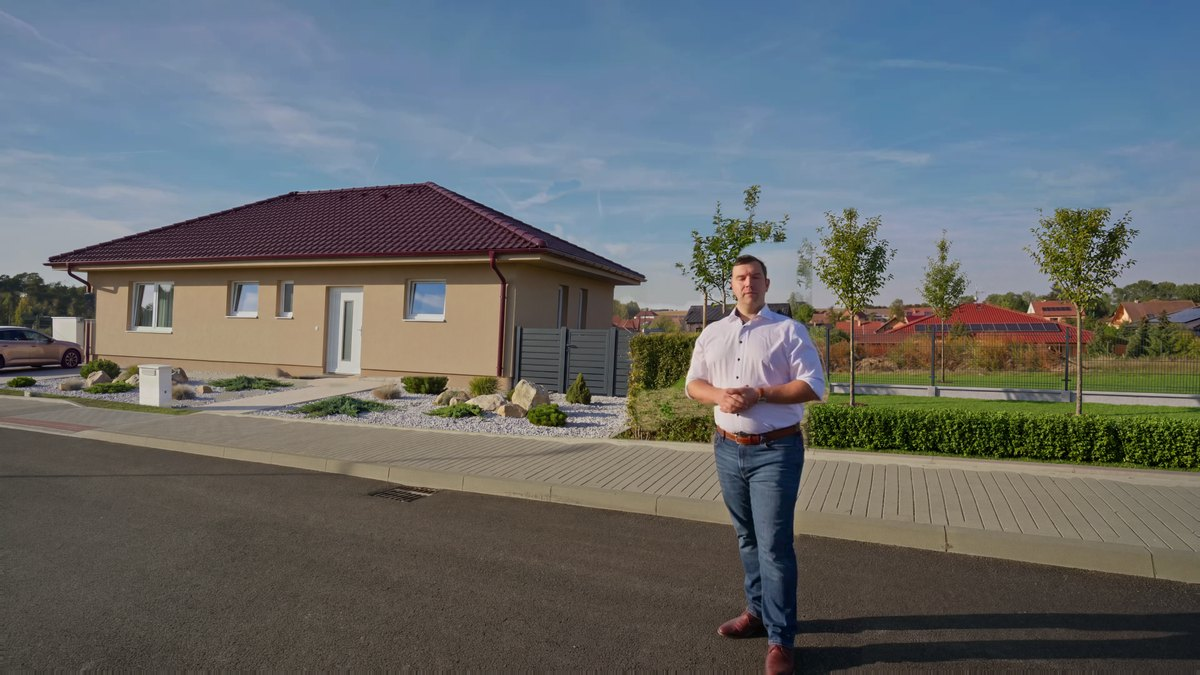
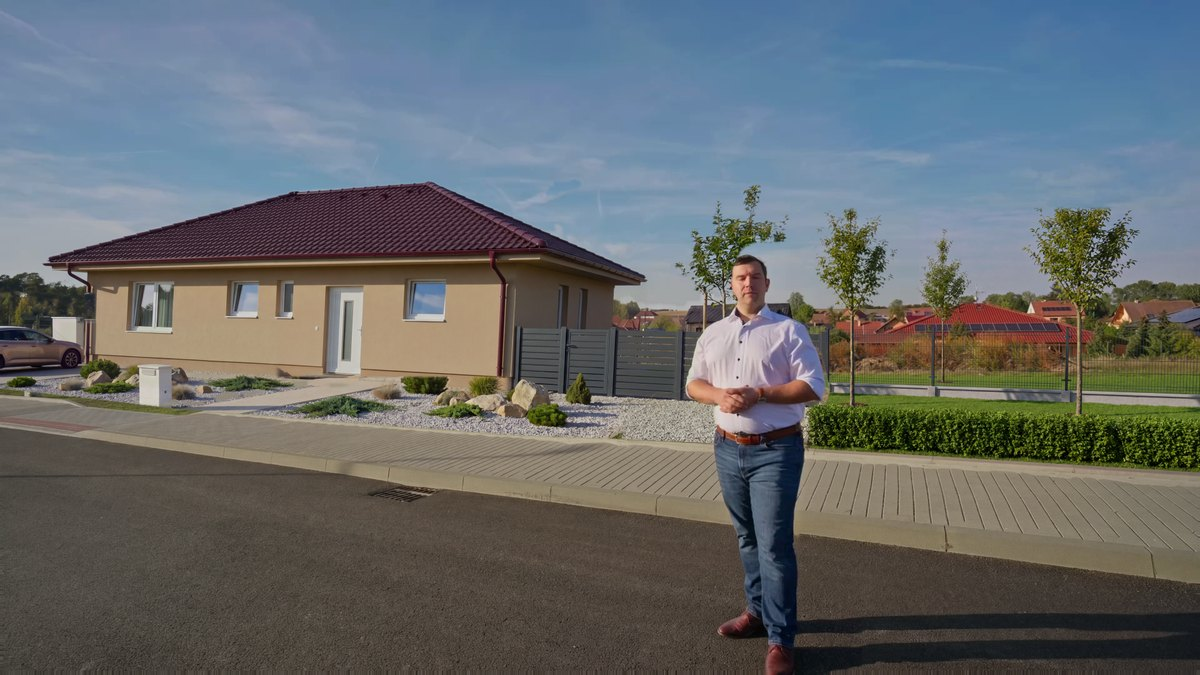
Záběr 61: plot místo zeleně vedle Martina (A, B), čistá obloha za hlavou

diff --git a/app.js b/app.js
@@ -20,7 +20,7 @@ const el = (tag, cls, text) => { const e = document.createElement(tag); if (cls)
 const state = { opt: {}, before: {}, picks: {}, cards: {} };
 function load() { try { state.picks = JSON.parse(localStorage.getItem(KEY) || '{}') || {}; } catch { state.picks = {}; } }
 function save() { try { localStorage.setItem(KEY, JSON.stringify(state.picks)); } catch { /* bez úložiště stránka funguje dál */ } }
-const V = "?v=3"; const src = (t, w) => `${t.img(state.before[t.id] ? "start" : state.opt[t.id])}-${w}.jpg${V}`;
+const V = "?v=4"; const src = (t, w) => `${t.img(state.before[t.id] ? "start" : state.opt[t.id])}-${w}.jpg${V}`;
 const optLabel = (t, id) => t.options.find(o => o.id === id)?.label || '';
 
 function openLightbox(href, alt) {

diff --git a/index.html b/index.html
@@ -8,7 +8,7 @@
   <title>Vizualizace ke schválení · Nad břehy Dalešic</title>
   <link rel="stylesheet" href="styles.css">
   <link rel="stylesheet" href="final.css">
-  <script src="app.js?v=3" defer></script>
+  <script src="app.js?v=4" defer></script>
 </head>
 <body>
   <main class="shell">
